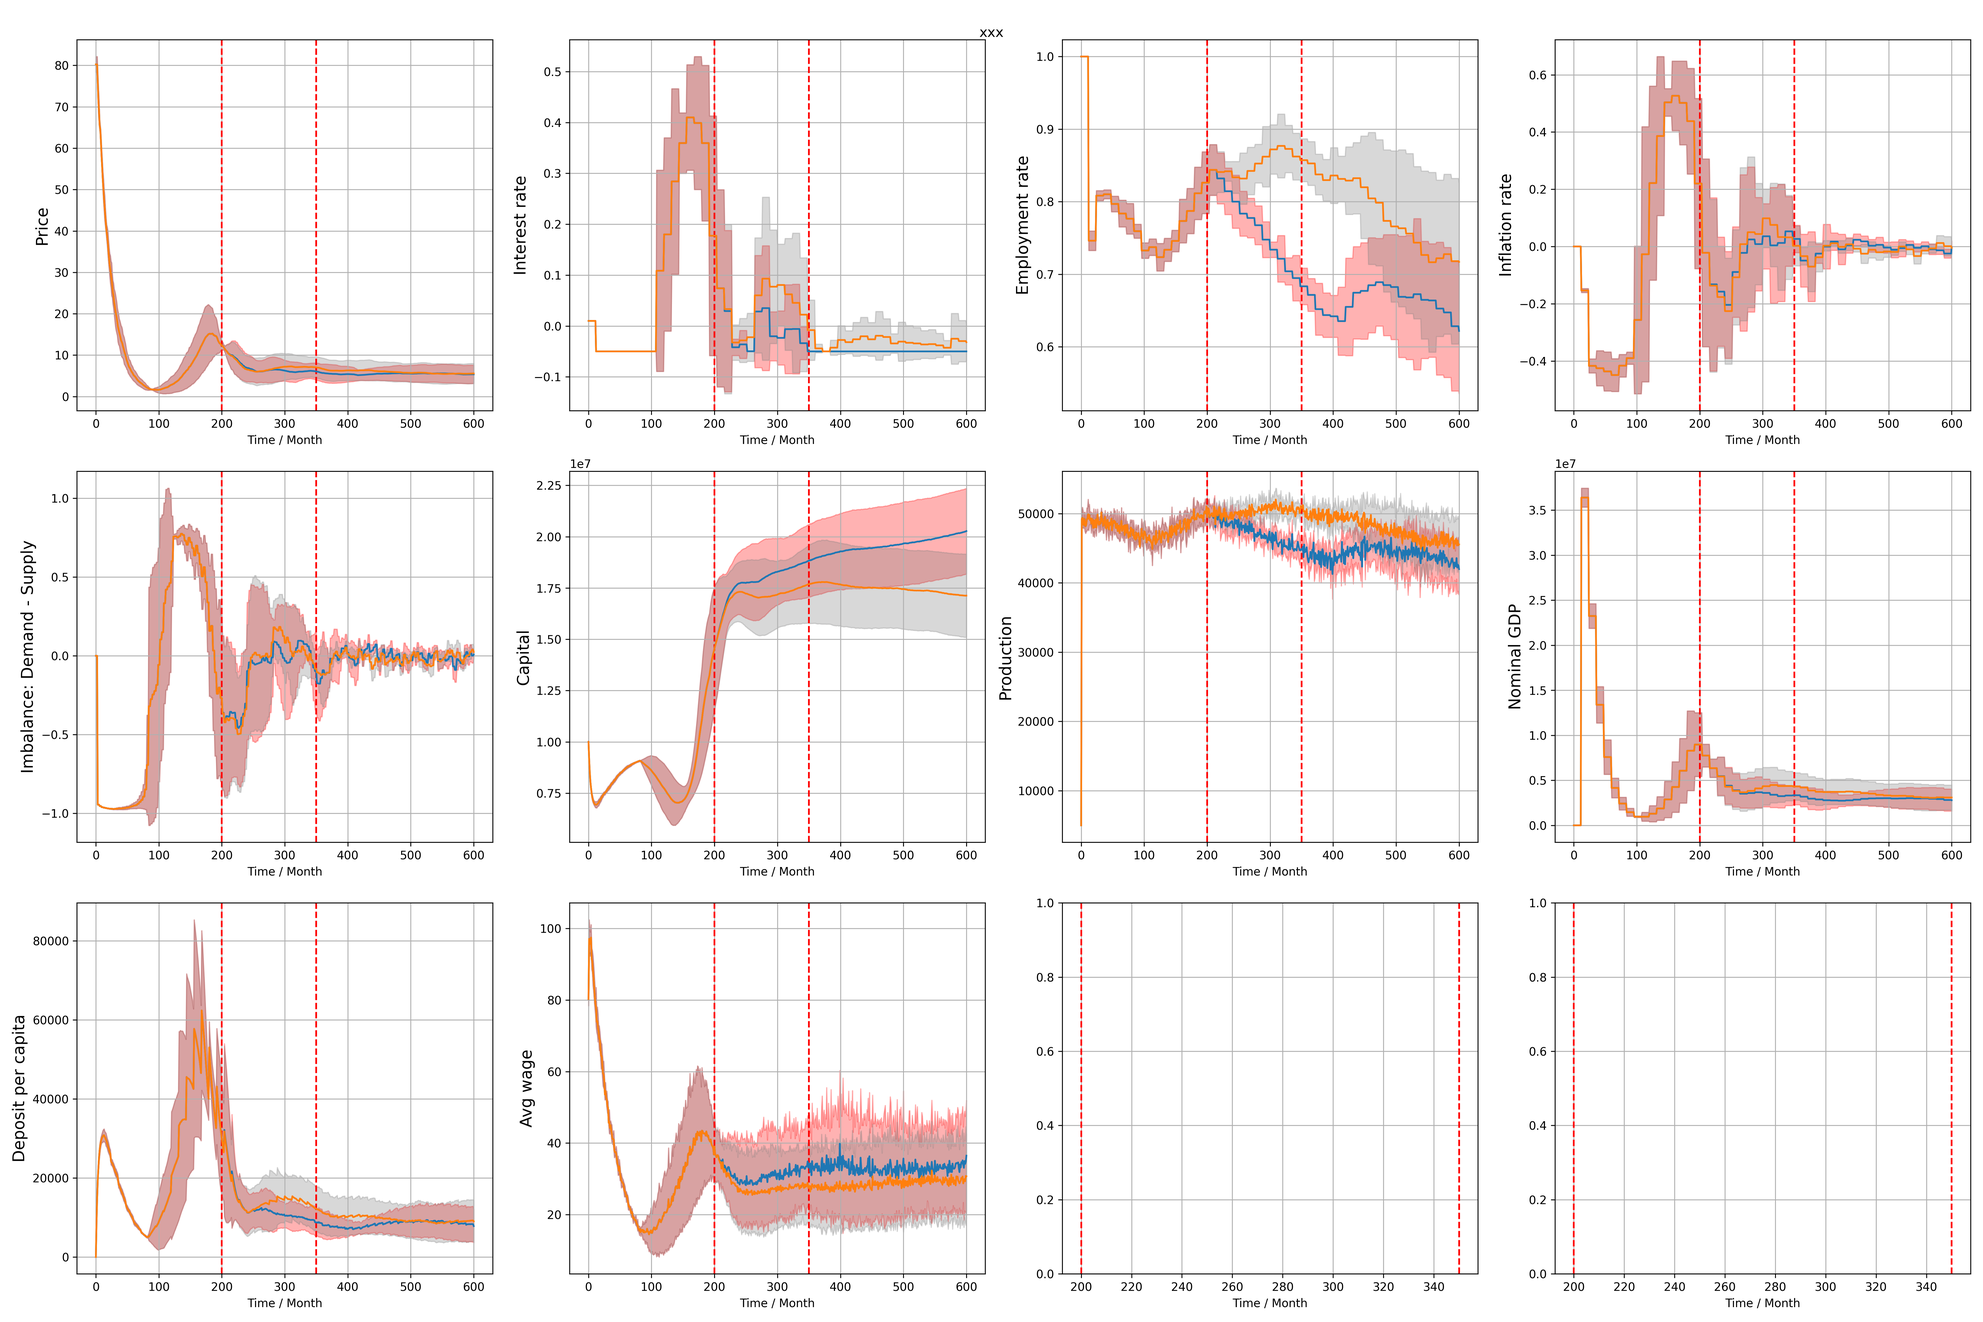
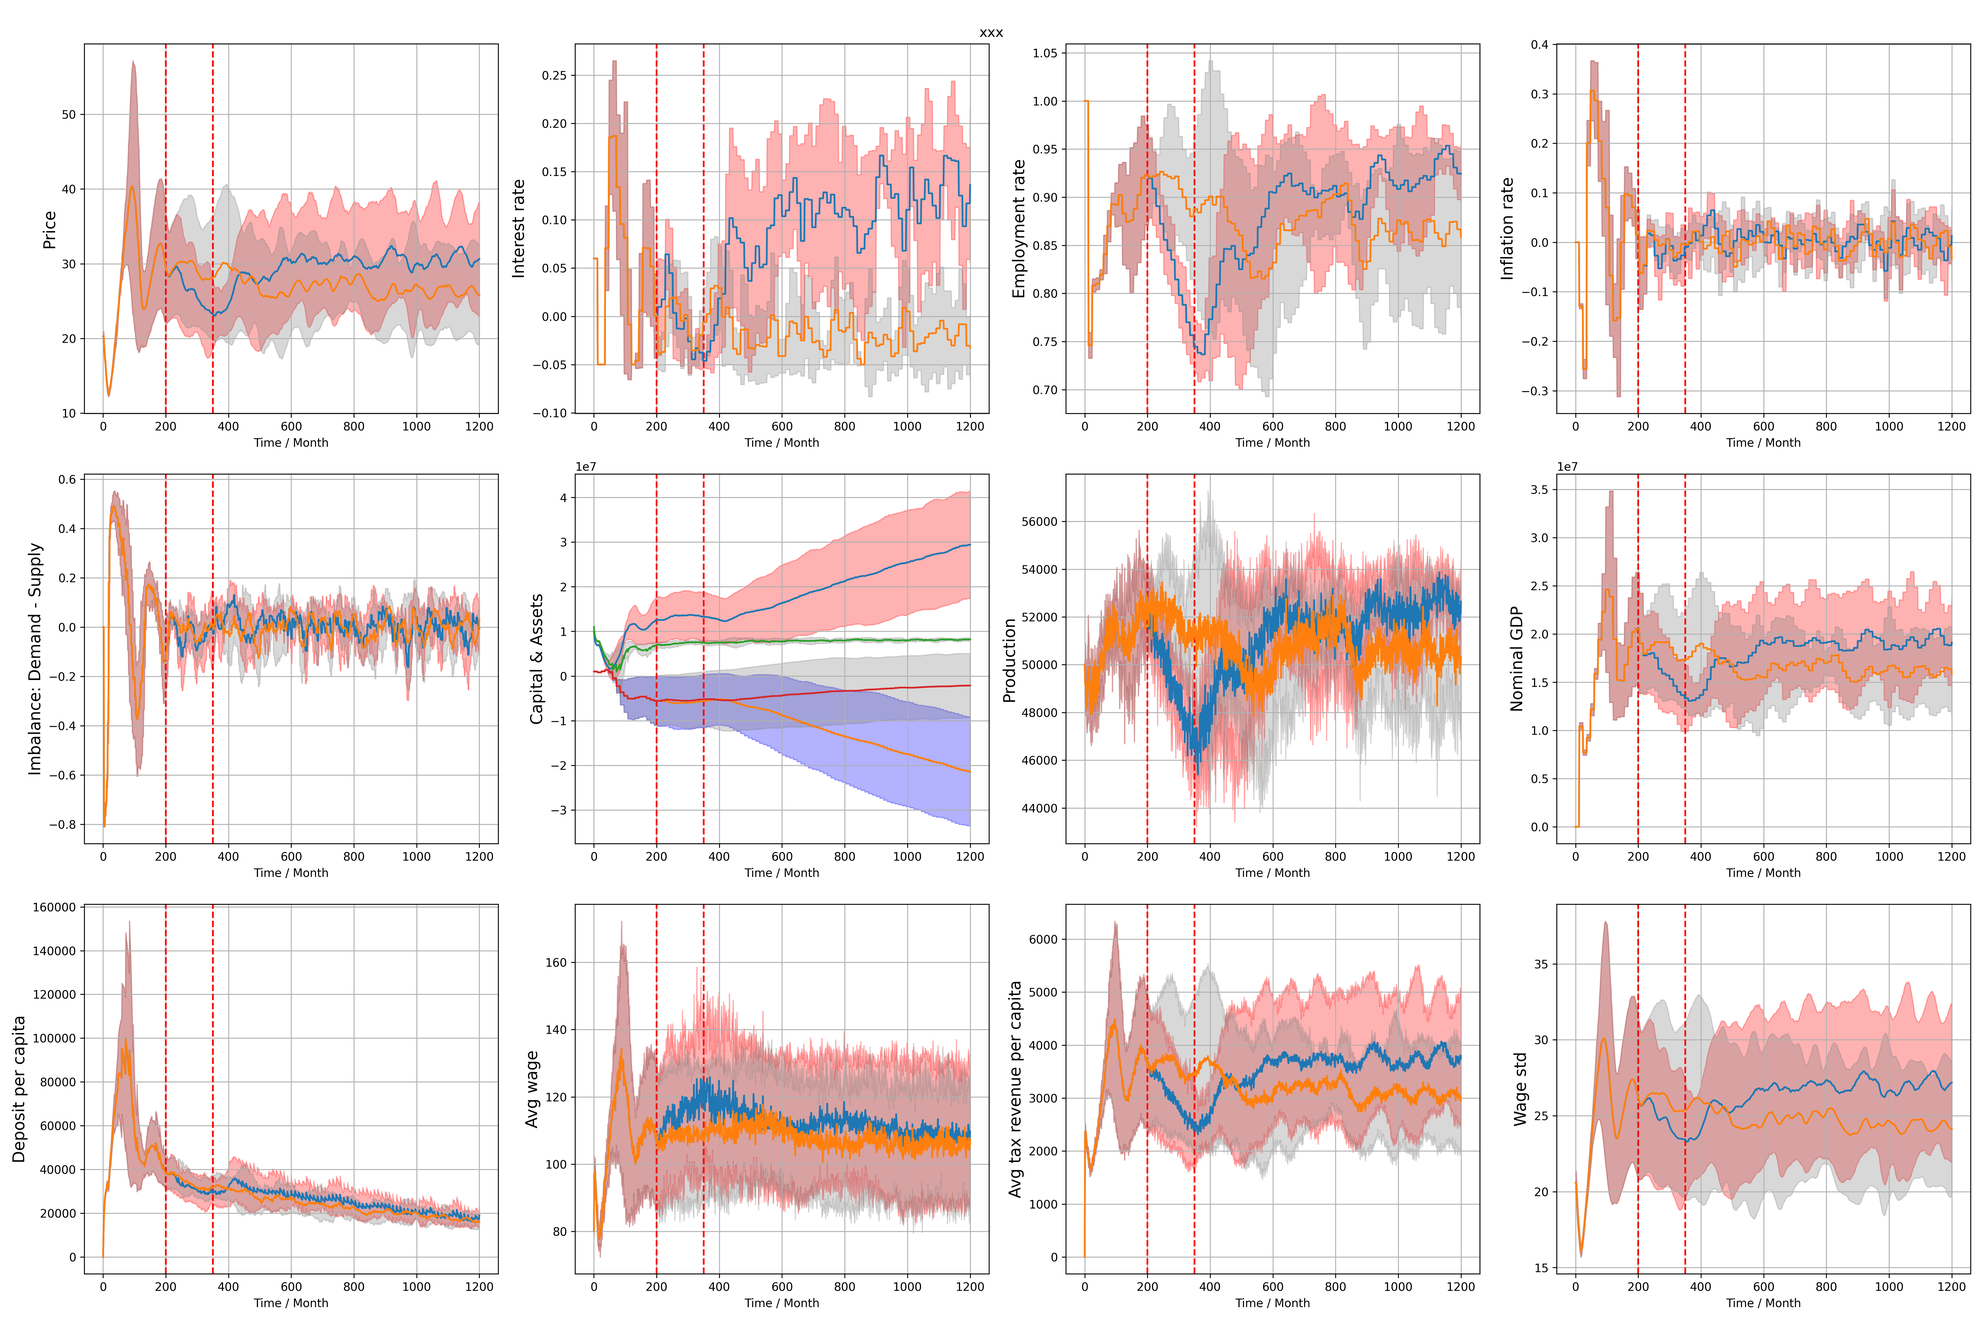
update many files

diff --git a/utils.py b/utils.py
@@ -138,6 +138,11 @@ def plot_bar(img_name:str, logs:list[dict], logs_compare:list[dict], config:Conf
     capitals_min = capitals_mean - np.std(capitals, axis=0)
     capitals_max = capitals_mean + np.std(capitals, axis=0)
     
+    assets = [[log[key]['assets'] for key in log.keys()] for log in logs]
+    assets_mean = np.mean(assets, axis=0)
+    assets_min = assets_mean - np.std(assets, axis=0)
+    assets_max = assets_mean + np.std(assets, axis=0)
+    
     productions = [[log[key]['production'] for key in log.keys()] for log in logs]
     productions_mean = np.mean(productions, axis=0)
     productions_min = productions_mean - np.std(productions, axis=0)
@@ -158,6 +163,16 @@ def plot_bar(img_name:str, logs:list[dict], logs_compare:list[dict], config:Conf
     avg_wages_min = avg_wages_mean - np.std(avg_wages, axis=0)
     avg_wages_max = avg_wages_mean + np.std(avg_wages, axis=0)
     
+    taxes = [[log[key]['taxes']/config.num_agents for key in log.keys()] for log in logs]
+    taxes_mean = np.mean(taxes, axis=0)
+    taxes_min = taxes_mean - np.std(taxes, axis=0)
+    taxes_max = taxes_mean + np.std(taxes, axis=0)
+    
+    wage_stds = [[np.std(log[key]['wage']) for key in log.keys()] for log in logs]
+    wage_stds_mean = np.mean(wage_stds, axis=0)
+    wage_stds_min = wage_stds_mean - np.std(wage_stds, axis=0)
+    wage_stds_max = wage_stds_mean + np.std(wage_stds, axis=0)
+    
     axs[0, 0].plot(x, prices_mean); axs[0, 0].set_ylabel('Price', fontsize=14)
     axs[0, 0].fill_between(x, prices_min, prices_max, color='red', alpha=0.3)
     
@@ -173,8 +188,10 @@ def plot_bar(img_name:str, logs:list[dict], logs_compare:list[dict], config:Conf
     axs[1, 0].plot(x, imbas_mean); axs[1, 0].set_ylabel('Imbalance: Demand - Supply', fontsize=14)
     axs[1, 0].fill_between(x, imbas_min, imbas_max, color='red', alpha=0.3)
     
-    axs[1, 1].plot(x, capitals_mean); axs[1, 1].set_ylabel('Capital', fontsize=14)
+    axs[1, 1].plot(x, capitals_mean); axs[1, 1].set_ylabel('Capital & Assets', fontsize=14)
     axs[1, 1].fill_between(x, capitals_min, capitals_max, color='red', alpha=0.3)
+    axs[1, 1].plot(x, assets_mean)
+    axs[1, 1].fill_between(x, assets_min, assets_max, color='blue', alpha=0.3)
     
     axs[1, 2].plot(x, productions_mean); axs[1, 2].set_ylabel('Production', fontsize=14)
     axs[1, 2].fill_between(x, productions_min, productions_max, color='red', alpha=0.3)
@@ -187,6 +204,12 @@ def plot_bar(img_name:str, logs:list[dict], logs_compare:list[dict], config:Conf
     
     axs[2, 1].plot(x, avg_wages_mean); axs[2, 1].set_ylabel('Avg wage', fontsize=14)
     axs[2, 1].fill_between(x, avg_wages_min, avg_wages_max, color='red', alpha=0.3)
+    
+    axs[2, 2].plot(x, taxes_mean); axs[2, 2].set_ylabel('Avg tax revenue per capita', fontsize=14)
+    axs[2, 2].fill_between(x, taxes_min, taxes_max, color='red', alpha=0.3)
+    
+    axs[2, 3].plot(x, wage_stds_mean); axs[2, 3].set_ylabel('Wage std', fontsize=14)
+    axs[2, 3].fill_between(x, wage_stds_min, wage_stds_max, color='red', alpha=0.3)
     if logs_compare is not None:
         prices = np.array([[log[key]['price'] for key in log.keys()] for log in logs_compare])
         prices_mean = np.mean(prices, axis=0)
@@ -215,10 +238,15 @@ def plot_bar(img_name:str, logs:list[dict], logs_compare:list[dict], config:Conf
         imbas_min = imbas_mean - np.std(imbas, axis=0)
         imbas_max = imbas_mean + np.std(imbas, axis=0)
         
-        capitals = [[log[key]['capital'] for key in log.keys()] for log in logs_compare]
+        capitals = [[log[key]['capital']+log[key]['assets'] for key in log.keys()] for log in logs_compare]
         capitals_mean = np.mean(capitals, axis=0)
         capitals_min = capitals_mean - np.std(capitals, axis=0)
         capitals_max = capitals_mean + np.std(capitals, axis=0)
+        
+        assets = [[log[key]['assets'] for key in log.keys()] for log in logs_compare]
+        assets_mean = np.mean(assets, axis=0)
+        assets_min = assets_mean - np.std(assets, axis=0)
+        assets_max = assets_mean + np.std(assets, axis=0)
     
         productions = [[log[key]['production'] for key in log.keys()] for log in logs_compare]
         productions_mean = np.mean(productions, axis=0)
@@ -240,6 +268,16 @@ def plot_bar(img_name:str, logs:list[dict], logs_compare:list[dict], config:Conf
         avg_wages_min = avg_wages_mean - np.std(avg_wages, axis=0)
         avg_wages_max = avg_wages_mean + np.std(avg_wages, axis=0)
         
+        taxes = [[log[key]['taxes']/config.num_agents for key in log.keys()] for log in logs_compare]
+        taxes_mean = np.mean(taxes, axis=0)
+        taxes_min = taxes_mean - np.std(taxes, axis=0)
+        taxes_max = taxes_mean + np.std(taxes, axis=0)
+        
+        wage_stds = [[np.std(log[key]['wage']) for key in log.keys()] for log in logs_compare]
+        wage_stds_mean = np.mean(wage_stds, axis=0)
+        wage_stds_min = wage_stds_mean - np.std(wage_stds, axis=0)
+        wage_stds_max = wage_stds_mean + np.std(wage_stds, axis=0)
+        
         axs[0, 0].plot(x, prices_mean); axs[0, 0].set_ylabel('Price', fontsize=14)
         axs[0, 0].fill_between(x, prices_min, prices_max, color='gray', alpha=0.3)
         
@@ -255,8 +293,10 @@ def plot_bar(img_name:str, logs:list[dict], logs_compare:list[dict], config:Conf
         axs[1, 0].plot(x, imbas_mean); axs[1, 0].set_ylabel('Imbalance: Demand - Supply', fontsize=14)
         axs[1, 0].fill_between(x, imbas_min, imbas_max, color='gray', alpha=0.3)
         
-        axs[1, 1].plot(x, capitals_mean); axs[1, 1].set_ylabel('Capital', fontsize=14)
+        axs[1, 1].plot(x, capitals_mean); axs[1, 1].set_ylabel('Capital & Assets', fontsize=14)
         axs[1, 1].fill_between(x, capitals_min, capitals_max, color='gray', alpha=0.3)
+        axs[1, 1].plot(x, assets_mean)
+        axs[1, 1].fill_between(x, assets_min, assets_max, color='gray', alpha=0.3)
     
         axs[1, 2].plot(x, productions_mean); axs[1, 2].set_ylabel('Production', fontsize=14)
         axs[1, 2].fill_between(x, productions_min, productions_max, color='gray', alpha=0.3)
@@ -269,6 +309,12 @@ def plot_bar(img_name:str, logs:list[dict], logs_compare:list[dict], config:Conf
         
         axs[2, 1].plot(x, avg_wages_mean); axs[2, 1].set_ylabel('Avg wage', fontsize=14)
         axs[2, 1].fill_between(x, avg_wages_min, avg_wages_max, color='gray', alpha=0.3)
+        
+        axs[2, 2].plot(x, taxes_mean); axs[2, 2].set_ylabel('Avg tax revenue per capita', fontsize=14)
+        axs[2, 2].fill_between(x, taxes_min, taxes_max, color='gray', alpha=0.3)
+        
+        axs[2, 3].plot(x, wage_stds_mean); axs[2, 3].set_ylabel('Wage std', fontsize=14)
+        axs[2, 3].fill_between(x, wage_stds_min, wage_stds_max, color='gray', alpha=0.3)
     plt.tight_layout()
     plt.savefig(img_name, dpi=300)
 

diff --git a/main.py b/main.py
@@ -27,12 +27,12 @@ def simulation(config:Configuration, event=False, intervention=False):
              alpha_u=config.alpha_u, 
              num_agents=config.num_agents, 
              rate_min=config.r_min,
+             init_assets=config.init_assets,
              )
     agents = init_agents(config)
 
-    F.P = np.mean([a.w for a in agents]) # t=0 initial price
-    unem_rate, infla_rate, Nominal_GDP = 0., 0., 0.
-    imba = 0.
+    F.P = np.mean([a.w*a.pc for a in agents]) # t=0 initial price
+    unem_rate, infla_rate, Nominal_GDP, imba = 0., 0., 0., 0.
     log = {
         0:
             {
@@ -50,6 +50,7 @@ def simulation(config:Configuration, event=False, intervention=False):
                 'avg_wage': sum([a.w for a in agents])/config.num_agents,
                 'GDP': Nominal_GDP,
                 'capital': F.capital,
+                'assets': B.assets,
                 }
             }
     
@@ -86,14 +87,17 @@ def simulation(config:Configuration, event=False, intervention=False):
         
         for a, w in zip(agents, wages_after_tax):
             a.z = w # update monthly income
+            B.deposit(a.id, w + sum(taxes)/config.num_agents) # 再分配
+            
             
             ########################## 干 预 开 始 ##########################
-            if t >= config.intervent_start and t <= config.intervent_end and intervention:
-                B.deposit(a.id, w + sum(taxes)/config.num_agents + 100) # 0.04*B.deposits[a.id] redistribution
-            else:
-                B.deposit(a.id, w + sum(taxes)/config.num_agents) # redistribution
+            # if t >= config.intervent_start and t <= config.intervent_end and intervention:
+            #     B.deposit(a.id, w + sum(taxes)/config.num_agents + 100) # 0.04*B.deposits[a.id] redistribution
+            # else:
+            #     B.deposit(a.id, w + sum(taxes)/config.num_agents)
             ########################## 干 预 结 束 ##########################
-        
+        if t >= config.intervent_start and t <= config.intervent_end and intervention:
+            B.natural_rate = max(B.natural_rate * 1.002, 0.1)
         
         if t % 3 == 0:
             imba = imbalance(agents, F.P, F.G, B.deposits)
@@ -110,6 +114,7 @@ def simulation(config:Configuration, event=False, intervention=False):
         ###########################################
         F.wage_adjustment(agents, imba)
         F.price_adjustment(imba)
+        F.cap_adjustment(imba)
         F.G -= total_quantity
         B.deposits = deposits
         
@@ -138,6 +143,7 @@ def simulation(config:Configuration, event=False, intervention=False):
             'avg_wage': sum([a.w for a in agents])/sum([1 if a.l else 0 for a in agents]),
             'GDP': Nominal_GDP,
             'capital': F.capital,
+            'assets': B.assets,
             }
         
         if t % 6 == 0 and t > 30:
@@ -146,7 +152,7 @@ def simulation(config:Configuration, event=False, intervention=False):
         a_w.append(agents[0].pc)
     # import matplotlib.pyplot as plt
     # plt.plot(a_w)
-    # print(a_w)
+        # print(t, F.cap4product)
     # plt.show()
 
     return log
@@ -155,13 +161,26 @@ if __name__ == '__main__':
     from utils import plot_log, plot_bar
     from config import Configuration
     from time import time
-    
+    ####################################### 单 次 实 验 #######################################
     # config = Configuration()
     # t1 = time()
     # log = simulation(config, event=True, intervention=True)
     # plot_log('./figs/log.png', log, config)
     # print('running time:{:.3f}'.format(time()-t1))
     
+    ####################################### 多 次 实 验 #######################################
+    # config = Configuration()
+    # config.seed = 123456
+    # logs = []
+    # for i in range(5):
+    #     print(f'Simulation {i+1}/5')
+    #     config.seed += i
+    #     log = simulation(config, event=False, intervention=True)
+    #     logs.append(log)
+    # plot_bar('./figs/bar-no-event-no-intervention.png', logs, logs_compare=None, config=config)
+    
+    
+    ####################################### 对 照 试 验 #######################################
     config = Configuration()
     config.seed = 123456
     logs, logs_no_event = [], []
@@ -174,22 +193,22 @@ if __name__ == '__main__':
         logs_no_event.append(log)
     plot_bar('./figs/bar-event-intervention.png', logs, logs_no_event, config)
     
-    config.seed = 123456
-    logs = []
-    for i in range(5):
-        print(f'Simulation {i+1}/5')
-        config.seed += i
-        log = simulation(config, event=True, intervention=False)
-        logs.append(log)
-    plot_bar('./figs/bar-event-no-intervention.png', logs, logs_no_event, config)
+    # config.seed = 123456
+    # logs = []
+    # for i in range(5):
+    #     print(f'Simulation {i+1}/5')
+    #     config.seed += i
+    #     log = simulation(config, event=True, intervention=False)
+    #     logs.append(log)
+    # plot_bar('./figs/bar-event-no-intervention.png', logs, logs_no_event, config)
     
-    config.seed = 123456
-    logs = []
-    for i in range(5):
-        print(f'Simulation {i+1}/5')
-        config.seed += i
-        log = simulation(config, event=False, intervention=True)
-        logs.append(log)
-    plot_bar('./figs/bar-no-event-intervention.png', logs, logs_no_event, config)
+    # config.seed = 123456
+    # logs = []
+    # for i in range(5):
+    #     print(f'Simulation {i+1}/5')
+    #     config.seed += i
+    #     log = simulation(config, event=False, intervention=True)
+    #     logs.append(log)
+    # plot_bar('./figs/bar-no-event-intervention.png', logs, logs_no_event, config)
     # 
     # 

diff --git a/src/bank.py b/src/bank.py
@@ -4,14 +4,24 @@ class bank:
     '''
     central bank
     '''
-    def __init__(self, rn:float, pi_t:float, un:float, alpha_pi:float, alpha_u:float, num_agents:int, rate_min:float):
-        self.rn = rn        # natural interest rate, constant value
-        self.pi_t = pi_t    # target inflation rate, constant value
-        self.un = un        # natural unemployment rate, constant value
-        self.rate = rn      # initial interest rate = natural rate
+    def __init__(self, 
+                 rn:float, 
+                 pi_t:float, 
+                 un:float, 
+                 alpha_pi:float, 
+                 alpha_u:float, 
+                 num_agents:int, 
+                 rate_min:float,
+                 init_assets:float,
+                 ):
+        self.natural_rate = rn        # natural interest rate, constant value
+        self.pi_t = pi_t              # target inflation rate, constant value
+        self.un = un                  # natural unemployment rate, constant value
+        self.rate = rn + pi_t         # initial interest rate = natural rate
         self.alpha_pi = alpha_pi
         self.alpha_u = alpha_u
-        self.rate_min = rate_min # minimal interest rate
+        self.rate_min = rate_min      # minimal interest rate
+        self.assets = init_assets
         self.deposits = {i:0. for i in range(num_agents)} # 注意，id从0开始编号，可能需要修改
     
     def interest(self, agent_list:list[agent],):
@@ -19,6 +29,7 @@ class bank:
         interest rate payment anually
         '''
         for a in agent_list:
+            self.assets -= self.deposits[a.id] * self.rate
             self.deposits[a.id] *= (1 + self.rate)
     
     def deposit(self, agent_id, income:float):
@@ -43,9 +54,9 @@ class bank:
         更高的工资意味着更高的生产成本, 这些成本往往会转嫁给消费者, 导致商品和服务价格上涨. 
         持续的工资和价格上涨可能会导致经济过热, 形成通胀压力. 提高名义利率可以减缓经济活动, 防止经济从过热走向失控.
         '''
-        rate_after = max(self.rn + self.pi_t + \
+        rate_after = min(max(self.natural_rate + self.pi_t + \
                         self.alpha_pi * (inflation_rate - self.pi_t) + \
                         self.alpha_u * (self.un - unemployment_rate), 
-                        self.rate_min)
+                        self.rate_min), 1.0)
         self.rate = rate_after
         return rate_after

diff --git a/src/agent.py b/src/agent.py
@@ -60,6 +60,14 @@ class agent:
         return self.pc
     
     def adjust(self, timestep:int, log:dict):
+        '''
+        维持消费品的消费量稳定
+        因此
+        价格上升，消费比例会提升
+        存款增加，消费比例会降低
+        '''
+        
+        
         last_period_deposit = sum([log[tt]['deposit'][self.id]*(1+log[tt]['rate']) for tt in range(timestep-6+1, timestep-3+1)])
         this_period_deposit = sum([log[tt]['deposit'][self.id]*(1+log[tt]['rate']) for tt in range(timestep-3+1, timestep+1)])
         sgn_deposit = -1 if this_period_deposit >= last_period_deposit else 1
@@ -70,11 +78,12 @@ class agent:
         
         last_period_price = sum([log[tt]['price'] for tt in range(timestep-6+1, timestep-3+1)])
         this_period_price = sum([log[tt]['price'] for tt in range(timestep-3+1, timestep+1)])
-        sgn_price = -1 if this_period_price >= last_period_price else 1
+        sgn_price = 1 if this_period_price >= last_period_price else -1
         
         self.pw += sgn_deposit * np.random.uniform() * self.pw_delta # 存款多了减少工作意愿
         self.pw += sgn_wage * np.random.uniform() * self.pw_delta    # 工资多了增加工作意愿
         self.pw = max(0, min(self.pw, 1.0))
-        self.pc += sgn_price * np.random.uniform() * self.pc_delta   # 价格上涨减少消费意愿
-        self.pc += sgn_deposit * np.random.uniform() * self.pc_delta # 存款多了增加消费意愿
+        
+        self.pc += sgn_price * np.random.uniform() * self.pc_delta   # 价格上涨增加消费比例（维持消费量不变）
+        self.pc += sgn_deposit * np.random.uniform() * self.pc_delta # 存款多了降低消费比例（维持消费量不变）
         self.pc = max(0, min(self.pc, 1.0))

diff --git a/config.py b/config.py
@@ -6,14 +6,14 @@ class Configuration:
     event_start = 200
     event_end = 350
     intervent_start = 200
-    intervent_end = 600
+    intervent_end = 400
     
     #####################################
     ##           仿 真 参 数           ##
     #####################################
     seed = 124 # int(time()) # 123
     num_agents = 100
-    num_time_steps = 12 * 50
+    num_time_steps = 12 * 100
     
     
     #####################################
@@ -24,19 +24,19 @@ class Configuration:
     alpha_w = 0.05
     alpha_p = 0.10
     alpha_c = 0.05
-    init_good = 5000
+    init_good = 50000
     init_cap = 1e7
     
     #####################################
     ##           银行模型参数           ##
     #####################################
     rn = 0.01 # 0.01         # natural interest rate 自然利率
-    pi_t = 0.1 # 0.02        # target inflation rate 目标通膨率
-    un = 0.1 # 0.04          # natural unemployment rate 自然失业率
+    pi_t = 0.05 # 0.02        # target inflation rate 目标通膨率
+    un = 0.05 # 0.04          # natural unemployment rate 自然失业率
     alpha_pi = 1.0
     alpha_u = 1.0
     r_min = -0.05            # minimal inter
-    
+    init_assets = 1e6
     
     #####################################
     ##          Agent模型参数          ##
@@ -52,6 +52,6 @@ class Configuration:
     pc_high = 0.4
     
     pw_delta = 0.03
-    pc_delta = 0.005
+    pc_delta = 0.01
     
     
